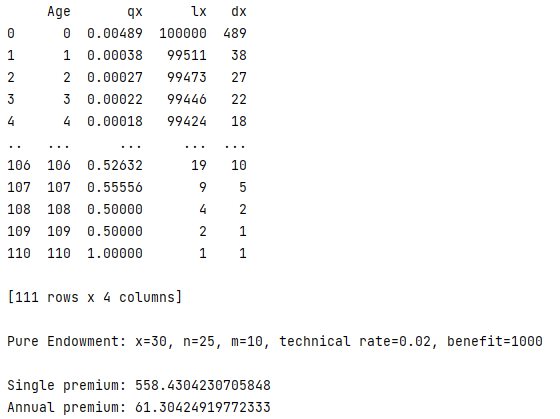
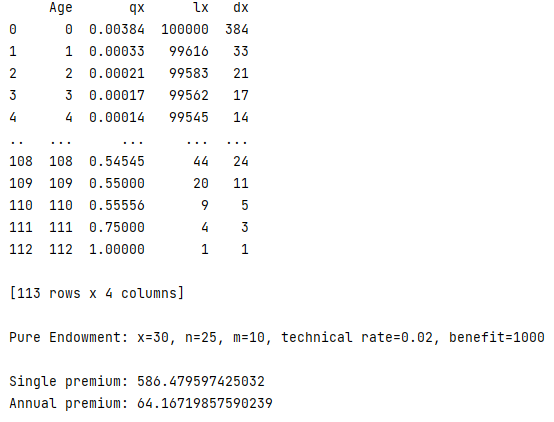
TF est utilisée plutôt que TH car contrat en cas de vie

diff --git a/main.py b/main.py
@@ -6,7 +6,7 @@ from premiums import *
 # Press the green button in the gutter to run the script.
 if __name__ == '__main__':
 
-    filepath = "./TH 00-02 décalé.csv"
+    filepath = "./TF 00-02 décalé.csv"
 
     mortality_table = get_full_table_data(filepath)
     print(f'{mortality_table}\n')
